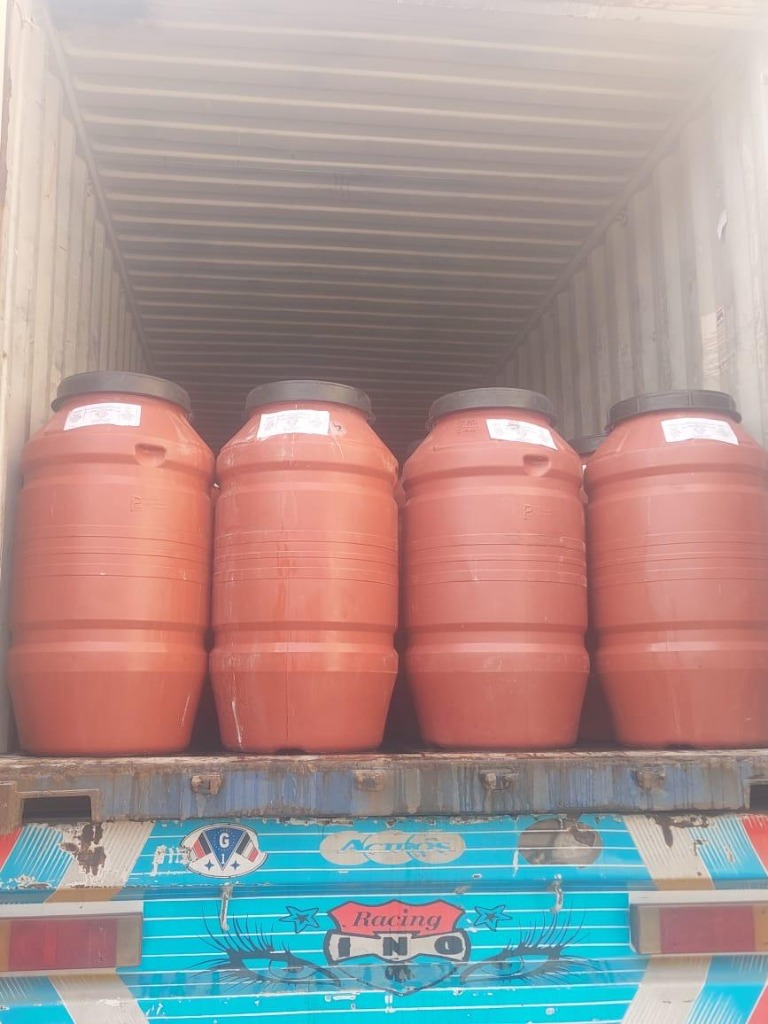
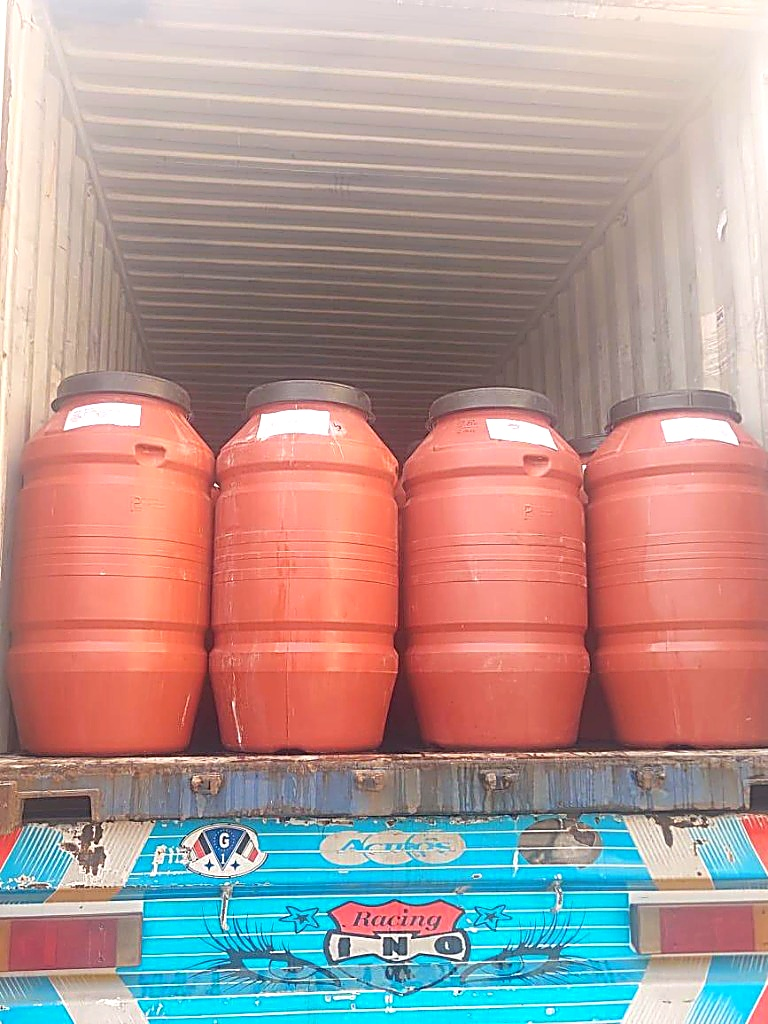
feat(4k): upgrade 230kg barrel and all 14 connoisseur varieties to dedicated 4K studio packshots

diff --git a/website.html b/website.html
@@ -3106,8 +3106,8 @@
               </div>
 
               <!-- Product Studio Packshot [ضع صورة الصنف هنا] -->
-              <div class="relative w-full aspect-[4/3] rounded-2xl bg-white p-3 mb-4 flex items-center justify-center overflow-hidden cursor-pointer group/img shadow-md border border-brand-gold/20" onclick="openLightbox('output/imagery/arina_pitted_green_olives_white_studio_hero_4k.jpg', 'Egyptian Green Toffahi Olives', '2. زيتون تفاحي أخضر', 'Authentic Egyptian heirloom olive with large round apple-like shape, thick crisp skin, and abundant succulent flesh.', 'زيتون مصري أصيل حباته مستديرة وكبيرة تشبه التفاح، ذو قشرة سميكة ولحم وفير.')">
-                <img src="output/imagery/arina_pitted_green_olives_white_studio_hero_4k.jpg" alt="Egyptian Green Toffahi Olives" loading="lazy" decoding="async" class="h-full w-full object-contain transition-transform duration-500 group-hover/img:scale-105">
+              <div class="relative w-full aspect-[4/3] rounded-2xl bg-white p-3 mb-4 flex items-center justify-center overflow-hidden cursor-pointer group/img shadow-md border border-brand-gold/20" onclick="openLightbox('output/imagery/arina_green_toffahi_olives_white_studio_hero_4k.jpg', 'Egyptian Green Toffahi Olives', '2. زيتون تفاحي أخضر', 'Authentic Egyptian heirloom olive with large round apple-like shape, thick crisp skin, and abundant succulent flesh.', 'زيتون مصري أصيل حباته مستديرة وكبيرة تشبه التفاح، ذو قشرة سميكة ولحم وفير.')">
+                <img src="output/imagery/arina_green_toffahi_olives_white_studio_hero_4k.jpg" alt="Egyptian Green Toffahi Olives" loading="lazy" decoding="async" class="h-full w-full object-contain transition-transform duration-500 group-hover/img:scale-105">
                 <div class="absolute bottom-2 end-2 bg-brand-forest-obsidian/90 border border-brand-gold/40 text-brand-gold text-[10px] font-bold px-2.5 py-1 rounded-full backdrop-blur-md opacity-0 group-hover/img:opacity-100 transition-opacity flex items-center gap-1.5 shadow-lg">
                   <svg class="w-3 h-3 text-brand-gold" fill="none" stroke="currentColor" viewBox="0 0 24 24"><path stroke-linecap="round" stroke-linejoin="round" stroke-width="2" d="M21 21l-6-6m2-5a7 7 0 11-14 0 7 7 0 0114 0zM10 7v3m0 0v3m0-3h3m-3 0H7"/></svg>
                   <span data-i18n="guide_zoom_label">تكبير 4K</span>
@@ -3180,8 +3180,8 @@
               </div>
 
               <!-- Product Studio Packshot [ضع صورة الصنف هنا] -->
-              <div class="relative w-full aspect-[4/3] rounded-2xl bg-white p-3 mb-4 flex items-center justify-center overflow-hidden cursor-pointer group/img shadow-md border border-brand-gold/20" onclick="openLightbox('output/imagery/arina_sliced_green_olives_white_studio_hero_4k.jpg', 'Egyptian Azizi Estate Olives', '3. زيتون العزيزي', 'Finest heirloom Egyptian estate olive, featuring oval geometry and pale golden-green hues upon optimal maturity.', 'من أجود أنواع الزيتون المصري، حباته بيضاوية الشكل ولونه يميل للأصفر الفاتح عند النضج.')">
-                <img src="output/imagery/arina_sliced_green_olives_white_studio_hero_4k.jpg" alt="Egyptian Azizi Estate Olives" loading="lazy" decoding="async" class="h-full w-full object-contain transition-transform duration-500 group-hover/img:scale-105">
+              <div class="relative w-full aspect-[4/3] rounded-2xl bg-white p-3 mb-4 flex items-center justify-center overflow-hidden cursor-pointer group/img shadow-md border border-brand-gold/20" onclick="openLightbox('output/imagery/arina_azizi_estate_olives_white_studio_hero_4k.jpg', 'Egyptian Azizi Estate Olives', '3. زيتون العزيزي', 'Finest heirloom Egyptian estate olive, featuring oval geometry and pale golden-green hues upon optimal maturity.', 'من أجود أنواع الزيتون المصري، حباته بيضاوية الشكل ولونه يميل للأصفر الفاتح عند النضج.')">
+                <img src="output/imagery/arina_azizi_estate_olives_white_studio_hero_4k.jpg" alt="Egyptian Azizi Estate Olives" loading="lazy" decoding="async" class="h-full w-full object-contain transition-transform duration-500 group-hover/img:scale-105">
                 <div class="absolute bottom-2 end-2 bg-brand-forest-obsidian/90 border border-brand-gold/40 text-brand-gold text-[10px] font-bold px-2.5 py-1 rounded-full backdrop-blur-md opacity-0 group-hover/img:opacity-100 transition-opacity flex items-center gap-1.5 shadow-lg">
                   <svg class="w-3 h-3 text-brand-gold" fill="none" stroke="currentColor" viewBox="0 0 24 24"><path stroke-linecap="round" stroke-linejoin="round" stroke-width="2" d="M21 21l-6-6m2-5a7 7 0 11-14 0 7 7 0 0114 0zM10 7v3m0 0v3m0-3h3m-3 0H7"/></svg>
                   <span data-i18n="guide_zoom_label">تكبير 4K</span>
@@ -3328,8 +3328,8 @@
               </div>
 
               <!-- Product Studio Packshot [ضع صورة الصنف هنا] -->
-              <div class="relative w-full aspect-[4/3] rounded-2xl bg-white p-3 mb-4 flex items-center justify-center overflow-hidden cursor-pointer group/img shadow-md border border-brand-gold/20" onclick="openLightbox('output/imagery/arina_pitted_green_olives_white_studio_hero_4k.jpg', 'Dolce Sweet Pitted Green Olives', '5. زيتون دولسي (المحلى / الأخضر المفرغ)', 'Precision-pitted whole green olives, uniquely cured to achieve a delicate sweet profile zero bitterness.', 'زيتون أخضر مفرغ النواة ومُعالج خصيصاً ليصبح حلو المذاق وخالياً تماماً من المرارة.')">
-                <img src="output/imagery/arina_pitted_green_olives_white_studio_hero_4k.jpg" alt="Dolce Sweet Pitted Green Olives" loading="lazy" decoding="async" class="h-full w-full object-contain transition-transform duration-500 group-hover/img:scale-105">
+              <div class="relative w-full aspect-[4/3] rounded-2xl bg-white p-3 mb-4 flex items-center justify-center overflow-hidden cursor-pointer group/img shadow-md border border-brand-gold/20" onclick="openLightbox('output/imagery/arina_dolce_sweet_pitted_olives_white_studio_hero_4k.jpg', 'Dolce Sweet Pitted Green Olives', '5. زيتون دولسي (المحلى / الأخضر المفرغ)', 'Precision-pitted whole green olives, uniquely cured to achieve a delicate sweet profile zero bitterness.', 'زيتون أخضر مفرغ النواة ومُعالج خصيصاً ليصبح حلو المذاق وخالياً تماماً من المرارة.')">
+                <img src="output/imagery/arina_dolce_sweet_pitted_olives_white_studio_hero_4k.jpg" alt="Dolce Sweet Pitted Green Olives" loading="lazy" decoding="async" class="h-full w-full object-contain transition-transform duration-500 group-hover/img:scale-105">
                 <div class="absolute bottom-2 end-2 bg-brand-forest-obsidian/90 border border-brand-gold/40 text-brand-gold text-[10px] font-bold px-2.5 py-1 rounded-full backdrop-blur-md opacity-0 group-hover/img:opacity-100 transition-opacity flex items-center gap-1.5 shadow-lg">
                   <svg class="w-3 h-3 text-brand-gold" fill="none" stroke="currentColor" viewBox="0 0 24 24"><path stroke-linecap="round" stroke-linejoin="round" stroke-width="2" d="M21 21l-6-6m2-5a7 7 0 11-14 0 7 7 0 0114 0zM10 7v3m0 0v3m0-3h3m-3 0H7"/></svg>
                   <span data-i18n="guide_zoom_label">تكبير 4K</span>
@@ -3402,8 +3402,8 @@
               </div>
 
               <!-- Product Studio Packshot [ضع صورة الصنف هنا] -->
-              <div class="relative w-full aspect-[4/3] rounded-2xl bg-white p-3 mb-4 flex items-center justify-center overflow-hidden cursor-pointer group/img shadow-md border border-brand-gold/20" onclick="openLightbox('output/imagery/arina_sliced_black_olives_white_studio_hero_4k.jpg', 'Elongated Picual Olives', '6. زيتون بيكول (الرفيع المائل للطول)', 'Slender elongated olive variety boasting superior flesh-to-pit ratio and a remarkably firm, crisp bite.', 'زيتون رفيع وطويل الشكل يتميز بكثافة اللحم بالنسبة للحجم وقوام صلب.')">
-                <img src="output/imagery/arina_sliced_black_olives_white_studio_hero_4k.jpg" alt="Elongated Picual Olives" loading="lazy" decoding="async" class="h-full w-full object-contain transition-transform duration-500 group-hover/img:scale-105">
+              <div class="relative w-full aspect-[4/3] rounded-2xl bg-white p-3 mb-4 flex items-center justify-center overflow-hidden cursor-pointer group/img shadow-md border border-brand-gold/20" onclick="openLightbox('output/imagery/arina_elongated_picual_olives_white_studio_hero_4k.jpg', 'Elongated Picual Olives', '6. زيتون بيكول (الرفيع المائل للطول)', 'Slender elongated olive variety boasting superior flesh-to-pit ratio and a remarkably firm, crisp bite.', 'زيتون رفيع وطويل الشكل يتميز بكثافة اللحم بالنسبة للحجم وقوام صلب.')">
+                <img src="output/imagery/arina_elongated_picual_olives_white_studio_hero_4k.jpg" alt="Elongated Picual Olives" loading="lazy" decoding="async" class="h-full w-full object-contain transition-transform duration-500 group-hover/img:scale-105">
                 <div class="absolute bottom-2 end-2 bg-brand-forest-obsidian/90 border border-brand-gold/40 text-brand-gold text-[10px] font-bold px-2.5 py-1 rounded-full backdrop-blur-md opacity-0 group-hover/img:opacity-100 transition-opacity flex items-center gap-1.5 shadow-lg">
                   <svg class="w-3 h-3 text-brand-gold" fill="none" stroke="currentColor" viewBox="0 0 24 24"><path stroke-linecap="round" stroke-linejoin="round" stroke-width="2" d="M21 21l-6-6m2-5a7 7 0 11-14 0 7 7 0 0114 0zM10 7v3m0 0v3m0-3h3m-3 0H7"/></svg>
                   <span data-i18n="guide_zoom_label">تكبير 4K</span>
@@ -3476,8 +3476,8 @@
               </div>
 
               <!-- Product Studio Packshot [ضع صورة الصنف هنا] -->
-              <div class="relative w-full aspect-[4/3] rounded-2xl bg-white p-3 mb-4 flex items-center justify-center overflow-hidden cursor-pointer group/img shadow-md border border-brand-gold/20" onclick="openLightbox('output/imagery/arina_royal_mixed_pickles_white_studio_hero_4k.jpg', 'Preserved Lemon with Safflower', '1. مخلل الليمون المعصفر', 'Whole authentic Egyptian baladi lemons hand-stuffed with aromatic saffron florets, nigella black seed, and coarse sea crystals.', 'ليمون بلدي كامل محشو بخليط من العصفر، حبة البركة، والملح الخشن.')">
-                <img src="output/imagery/arina_royal_mixed_pickles_white_studio_hero_4k.jpg" alt="Preserved Lemon with Safflower" loading="lazy" decoding="async" class="h-full w-full object-contain transition-transform duration-500 group-hover/img:scale-105">
+              <div class="relative w-full aspect-[4/3] rounded-2xl bg-white p-3 mb-4 flex items-center justify-center overflow-hidden cursor-pointer group/img shadow-md border border-brand-gold/20" onclick="openLightbox('output/imagery/arina_preserved_lemon_moasfar_white_studio_hero_4k.jpg', 'Preserved Lemon with Safflower', '1. مخلل الليمون المعصفر', 'Whole authentic Egyptian baladi lemons hand-stuffed with aromatic saffron florets, nigella black seed, and coarse sea crystals.', 'ليمون بلدي كامل محشو بخليط من العصفر، حبة البركة، والملح الخشن.')">
+                <img src="output/imagery/arina_preserved_lemon_moasfar_white_studio_hero_4k.jpg" alt="Preserved Lemon with Safflower" loading="lazy" decoding="async" class="h-full w-full object-contain transition-transform duration-500 group-hover/img:scale-105">
                 <div class="absolute bottom-2 end-2 bg-brand-forest-obsidian/90 border border-brand-gold/40 text-brand-gold text-[10px] font-bold px-2.5 py-1 rounded-full backdrop-blur-md opacity-0 group-hover/img:opacity-100 transition-opacity flex items-center gap-1.5 shadow-lg">
                   <svg class="w-3 h-3 text-brand-gold" fill="none" stroke="currentColor" viewBox="0 0 24 24"><path stroke-linecap="round" stroke-linejoin="round" stroke-width="2" d="M21 21l-6-6m2-5a7 7 0 11-14 0 7 7 0 0114 0zM10 7v3m0 0v3m0-3h3m-3 0H7"/></svg>
                   <span data-i18n="guide_zoom_label">تكبير 4K</span>
@@ -3772,8 +3772,8 @@
               </div>
 
               <!-- Product Studio Packshot [ضع صورة الصنف هنا] -->
-              <div class="relative w-full aspect-[4/3] rounded-2xl bg-white p-3 mb-4 flex items-center justify-center overflow-hidden cursor-pointer group/img shadow-md border border-brand-gold/20" onclick="openLightbox('output/imagery/arina_crisp_baby_cucumbers_petite_210g_white_studio_hero_4k.jpg', 'Hand-Peeled Baladi Pearl Onions', '5. مخلل البصل الصغير (البصل البلدي)', 'Petite whole hand-peeled baladi onions, cured with precision to preserve maximum cellular crunch without softening.', 'بصل صغير كامل ومقشر، مخلل بعناية ليحتفظ بقوامه الصلب دون أن يترهل.')">
-                <img src="output/imagery/arina_crisp_baby_cucumbers_petite_210g_white_studio_hero_4k.jpg" alt="Hand-Peeled Baladi Pearl Onions" loading="lazy" decoding="async" class="h-full w-full object-contain transition-transform duration-500 group-hover/img:scale-105">
+              <div class="relative w-full aspect-[4/3] rounded-2xl bg-white p-3 mb-4 flex items-center justify-center overflow-hidden cursor-pointer group/img shadow-md border border-brand-gold/20" onclick="openLightbox('output/imagery/arina_crisp_pearl_onions_white_studio_hero_4k.jpg', 'Hand-Peeled Baladi Pearl Onions', '5. مخلل البصل الصغير (البصل البلدي)', 'Petite whole hand-peeled baladi onions, cured with precision to preserve maximum cellular crunch without softening.', 'بصل صغير كامل ومقشر، مخلل بعناية ليحتفظ بقوامه الصلب دون أن يترهل.')">
+                <img src="output/imagery/arina_crisp_pearl_onions_white_studio_hero_4k.jpg" alt="Hand-Peeled Baladi Pearl Onions" loading="lazy" decoding="async" class="h-full w-full object-contain transition-transform duration-500 group-hover/img:scale-105">
                 <div class="absolute bottom-2 end-2 bg-brand-forest-obsidian/90 border border-brand-gold/40 text-brand-gold text-[10px] font-bold px-2.5 py-1 rounded-full backdrop-blur-md opacity-0 group-hover/img:opacity-100 transition-opacity flex items-center gap-1.5 shadow-lg">
                   <svg class="w-3 h-3 text-brand-gold" fill="none" stroke="currentColor" viewBox="0 0 24 24"><path stroke-linecap="round" stroke-linejoin="round" stroke-width="2" d="M21 21l-6-6m2-5a7 7 0 11-14 0 7 7 0 0114 0zM10 7v3m0 0v3m0-3h3m-3 0H7"/></svg>
                   <span data-i18n="guide_zoom_label">تكبير 4K</span>
@@ -3846,8 +3846,8 @@
               </div>
 
               <!-- Product Studio Packshot [ضع صورة الصنف هنا] -->
-              <div class="relative w-full aspect-[4/3] rounded-2xl bg-white p-3 mb-4 flex items-center justify-center overflow-hidden cursor-pointer group/img shadow-md border border-brand-gold/20" onclick="openLightbox('output/imagery/arina_royal_mixed_pickles_petite_210g_white_studio_hero_4k.jpg', 'Whole Fiery Baladi Chili Peppers', '6. مخلل الفلفل الحار الكامل', 'Whole local farm hot chili peppers (emerald green and ruby red) preserved in concentrated artisanal sea salt brine.', 'قرون فلفل حار بلدية كاملة (أخضر أو أحمر)، مخللة في محلول ملحي مركز.')">
-                <img src="output/imagery/arina_royal_mixed_pickles_petite_210g_white_studio_hero_4k.jpg" alt="Whole Fiery Baladi Chili Peppers" loading="lazy" decoding="async" class="h-full w-full object-contain transition-transform duration-500 group-hover/img:scale-105">
+              <div class="relative w-full aspect-[4/3] rounded-2xl bg-white p-3 mb-4 flex items-center justify-center overflow-hidden cursor-pointer group/img shadow-md border border-brand-gold/20" onclick="openLightbox('output/imagery/arina_whole_fiery_chili_white_studio_hero_4k.jpg', 'Whole Fiery Baladi Chili Peppers', '6. مخلل الفلفل الحار الكامل', 'Whole local farm hot chili peppers (emerald green and ruby red) preserved in concentrated artisanal sea salt brine.', 'قرون فلفل حار بلدية كاملة (أخضر أو أحمر)، مخللة في محلول ملحي مركز.')">
+                <img src="output/imagery/arina_whole_fiery_chili_white_studio_hero_4k.jpg" alt="Whole Fiery Baladi Chili Peppers" loading="lazy" decoding="async" class="h-full w-full object-contain transition-transform duration-500 group-hover/img:scale-105">
                 <div class="absolute bottom-2 end-2 bg-brand-forest-obsidian/90 border border-brand-gold/40 text-brand-gold text-[10px] font-bold px-2.5 py-1 rounded-full backdrop-blur-md opacity-0 group-hover/img:opacity-100 transition-opacity flex items-center gap-1.5 shadow-lg">
                   <svg class="w-3 h-3 text-brand-gold" fill="none" stroke="currentColor" viewBox="0 0 24 24"><path stroke-linecap="round" stroke-linejoin="round" stroke-width="2" d="M21 21l-6-6m2-5a7 7 0 11-14 0 7 7 0 0114 0zM10 7v3m0 0v3m0-3h3m-3 0H7"/></svg>
                   <span data-i18n="guide_zoom_label">تكبير 4K</span>
@@ -3994,8 +3994,8 @@
               </div>
 
               <!-- Product Studio Packshot [ضع صورة الصنف هنا] -->
-              <div class="relative w-full aspect-[4/3] rounded-2xl bg-white p-3 mb-4 flex items-center justify-center overflow-hidden cursor-pointer group/img shadow-md border border-brand-gold/20" onclick="openLightbox('output/imagery/arina_garlic_stuffed_olives_white_studio_hero_4k.jpg', 'Baladi Pickled Eggplant with Red Dressing', '8. مخلل الباذنجان البلدي (بالخلطة الحمراء)', 'Tender poached petite baladi eggplants slit and filled with crushed garlic, fiery red peppers, lemon juice, and ground cumin.', 'باذنجان مسلوق ومحشو بخلطة الثوم المفروم، الفلفل الأحمر، الليمون، والكمون.')">
-                <img src="output/imagery/arina_garlic_stuffed_olives_white_studio_hero_4k.jpg" alt="Baladi Pickled Eggplant with Red Dressing" loading="lazy" decoding="async" class="h-full w-full object-contain transition-transform duration-500 group-hover/img:scale-105">
+              <div class="relative w-full aspect-[4/3] rounded-2xl bg-white p-3 mb-4 flex items-center justify-center overflow-hidden cursor-pointer group/img shadow-md border border-brand-gold/20" onclick="openLightbox('output/imagery/arina_baladi_pickled_eggplant_white_studio_hero_4k.jpg', 'Baladi Pickled Eggplant with Red Dressing', '8. مخلل الباذنجان البلدي (بالخلطة الحمراء)', 'Tender poached petite baladi eggplants slit and filled with crushed garlic, fiery red peppers, lemon juice, and ground cumin.', 'باذنجان مسلوق ومحشو بخلطة الثوم المفروم، الفلفل الأحمر، الليمون، والكمون.')">
+                <img src="output/imagery/arina_baladi_pickled_eggplant_white_studio_hero_4k.jpg" alt="Baladi Pickled Eggplant with Red Dressing" loading="lazy" decoding="async" class="h-full w-full object-contain transition-transform duration-500 group-hover/img:scale-105">
                 <div class="absolute bottom-2 end-2 bg-brand-forest-obsidian/90 border border-brand-gold/40 text-brand-gold text-[10px] font-bold px-2.5 py-1 rounded-full backdrop-blur-md opacity-0 group-hover/img:opacity-100 transition-opacity flex items-center gap-1.5 shadow-lg">
                   <svg class="w-3 h-3 text-brand-gold" fill="none" stroke="currentColor" viewBox="0 0 24 24"><path stroke-linecap="round" stroke-linejoin="round" stroke-width="2" d="M21 21l-6-6m2-5a7 7 0 11-14 0 7 7 0 0114 0zM10 7v3m0 0v3m0-3h3m-3 0H7"/></svg>
                   <span data-i18n="guide_zoom_label">تكبير 4K</span>
